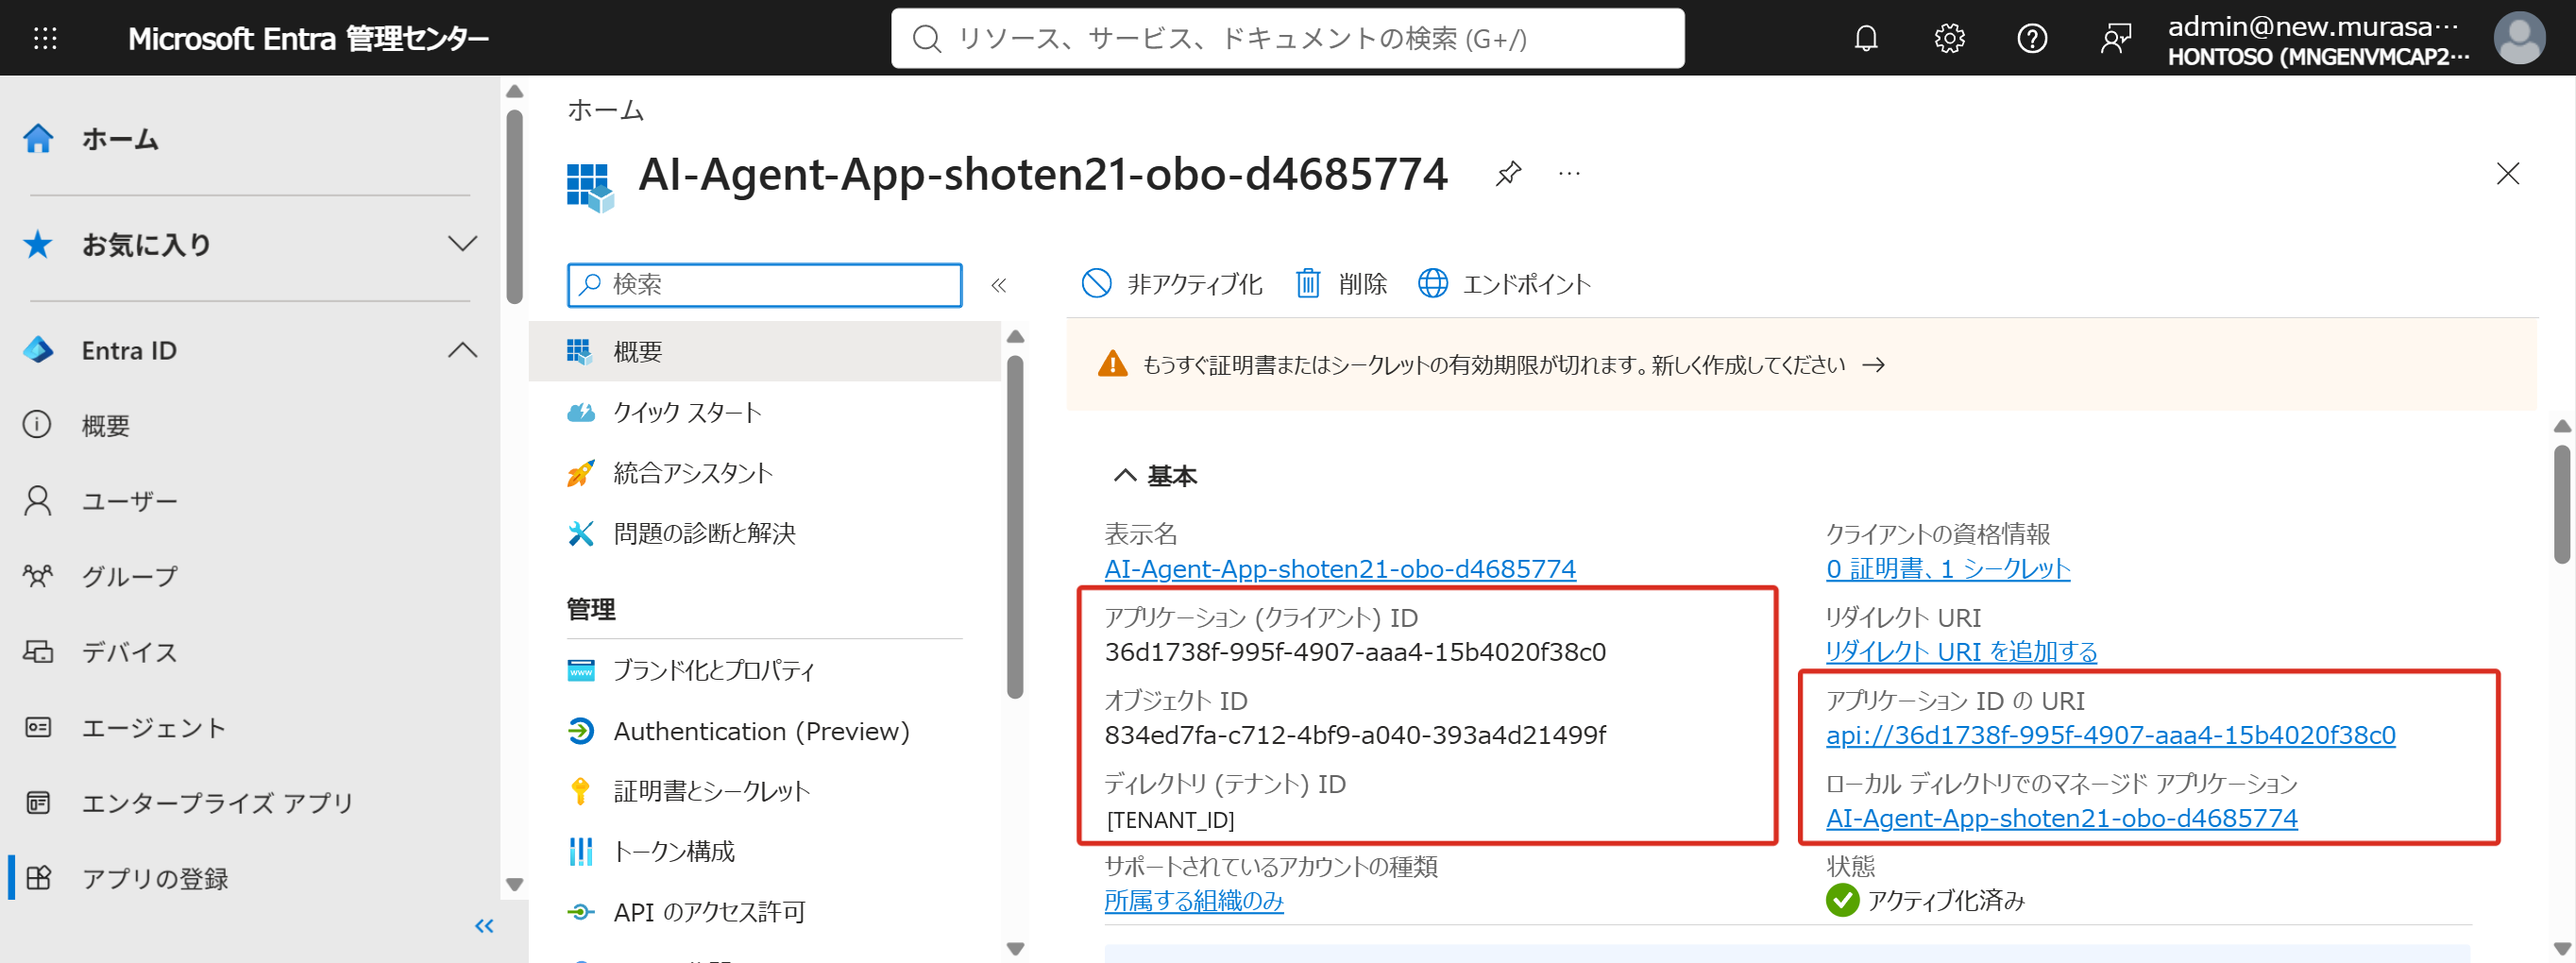
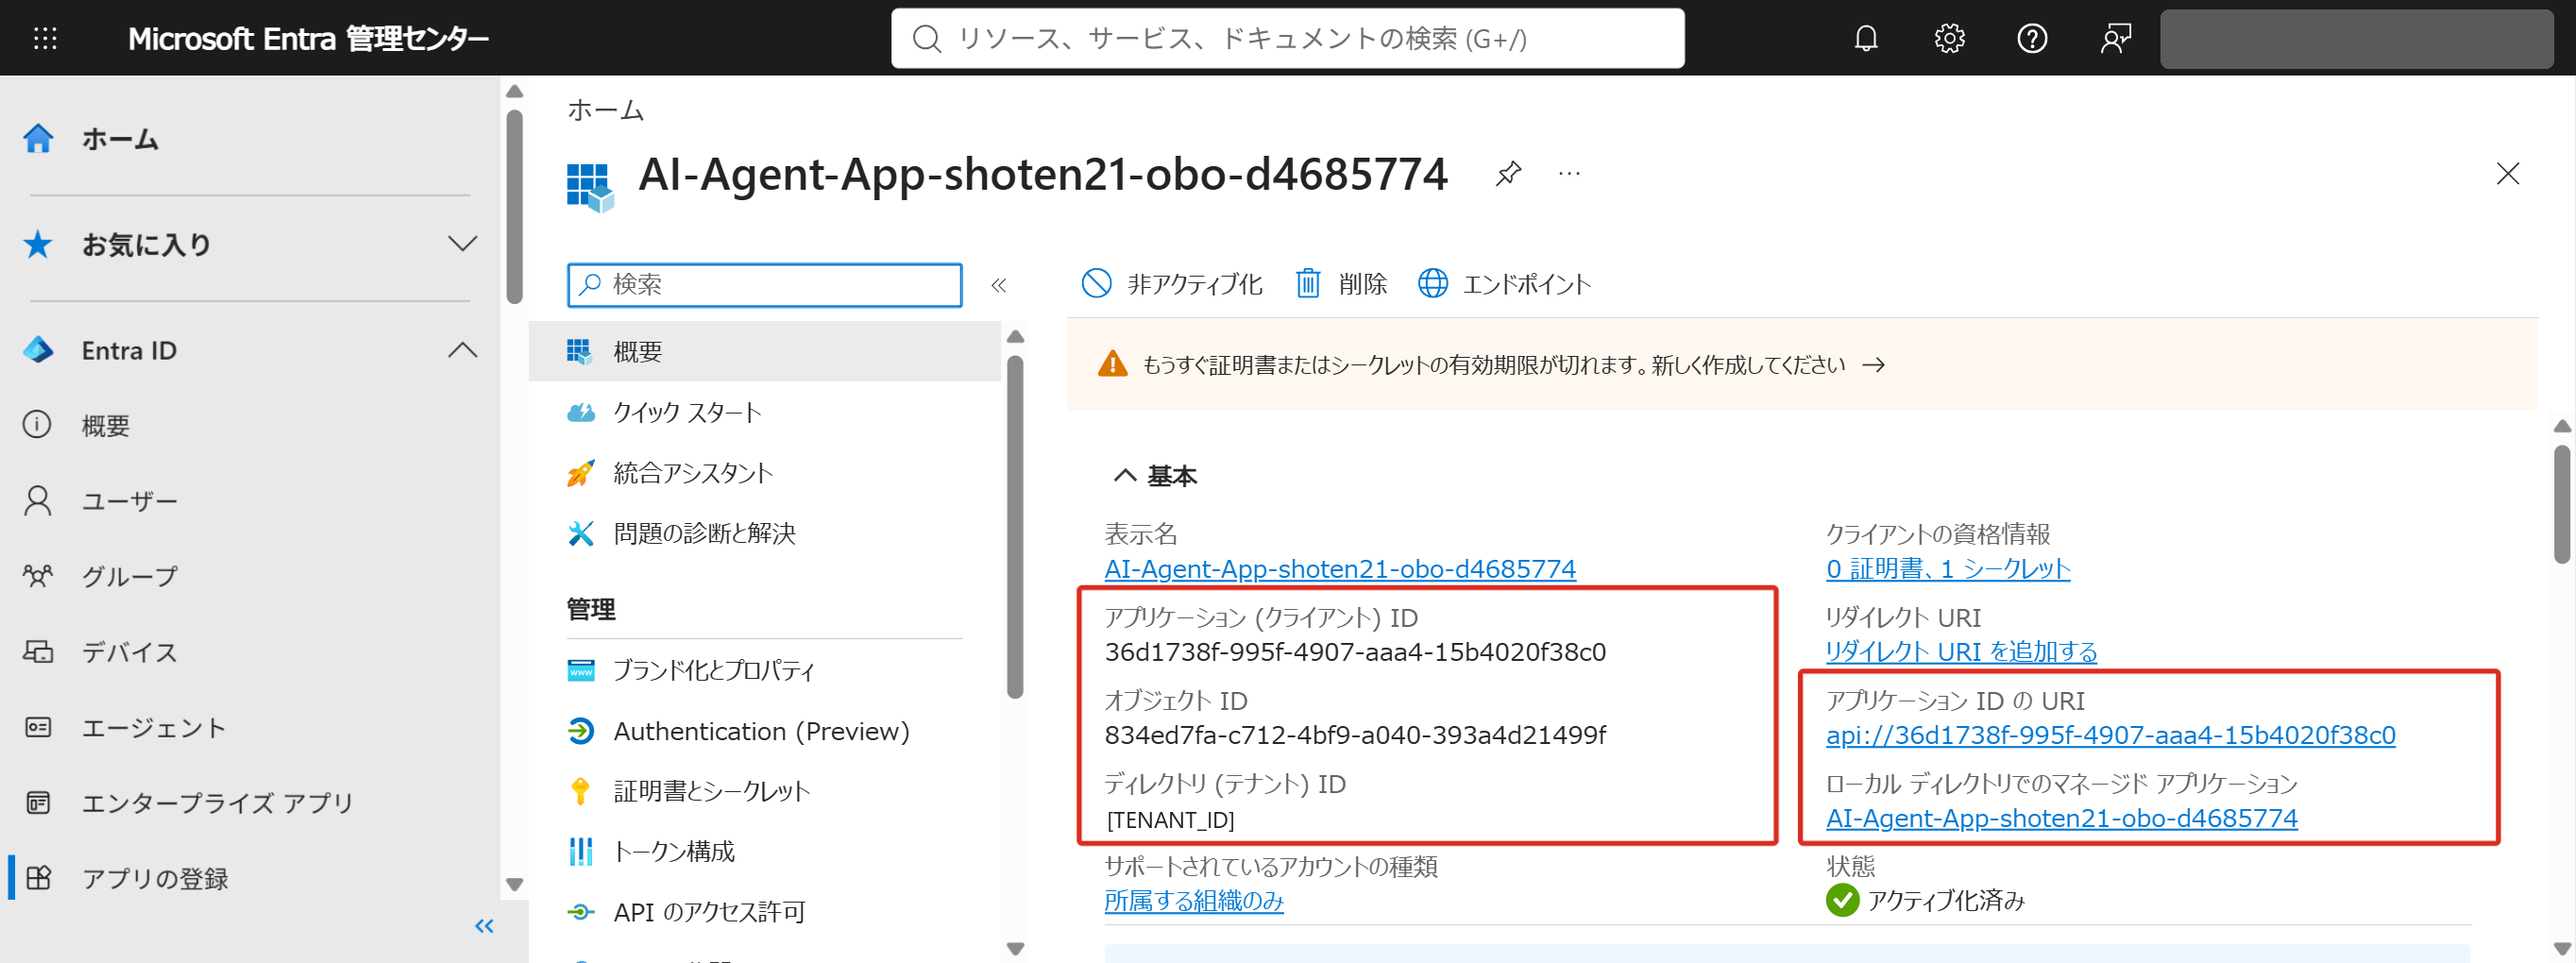
feat: add receiver boundary checks, label Bearer checks by schema, mask portal images
The Keycloak-only run gains eight receiver-boundary checks (44 in total): the JWT grant returns no refresh token, a request without client authentication is rejected, a public client is rejected while an identically configured confidential control client is accepted, an unlinked subject whose email matches the linked user is rejected and creates no user, and an access token from an assertion that expires after six seconds is accepted before and rejected after its exp. examples/author-run/keycloak/verified-results.json comes from the 2026-10-31 run and defines the launcher's expected check names.

Token views label the saved Bearer check by report schema (GET /resource for the receiver run, POST /mcp for the Federated run) and reject reports with an unknown schema. The four docs/screenshots/entra-portal-*.png images no longer show the account at the top right of the portal. README.md and AGENTS.md point to v1.3.1 and state the actual offline test counts (64 Python, 12 Node).

Changed region(s): [[0.8413, 0.0, 0.9971, 0.0912]]

diff --git a/keycloak/README.md b/keycloak/README.md
@@ -124,7 +124,9 @@ dashboard; it contains the exact local receiver endpoint and sanitized outcomes.
    `oauth2.jwt.authorization.grant.enabled=true` and
    `oauth2.jwt.authorization.grant.idp=custom-idjag-issuer`.
 4. Keycloak links the external subject to a pre-created local synthetic user.
-   This lab tests an existing mapping, not automatic just-in-time provisioning.
+   This lab tests an existing mapping, not automatic just-in-time provisioning:
+   an unlinked `sub` is rejected even when its `email` claim matches the linked
+   user, and no local user is created.
 5. The client sends `grant_type=urn:ietf:params:oauth:grant-type:jwt-bearer`,
    `assertion`, `client_id`, `client_secret`, and `scope=lab.read` to Keycloak.
    The ID-JAG-specific validator binds the asserted client to the authenticated
@@ -199,6 +201,18 @@ also passed. Its owned container
 `shoten-idjag-87c11961-3ad3-412a-93a8-4421df767685` (`96f3778c7559`) and its
 stopped collision fixture were removed; no lab service was left running. A later
 run overwrites the JSON with its own timestamps and container ID.
+
+On **2026-10-31** eight receiver-boundary checks were added, which brings the
+Keycloak-only suite to **44 checks** (the Entra-backed Federated run is unchanged
+at 36): the grant returns no refresh token; a request without client
+authentication is rejected (HTTP 401 `unauthorized_client`); a public client is
+rejected (HTTP 400 `invalid_grant`) while an identically configured confidential
+control client succeeds; an unlinked `sub` is rejected even when an `email` claim
+matches the linked user, and no local user is created; and an access token from an
+assertion that expires after six seconds is accepted by the resource before, and
+rejected after, its `exp` (the run waits about eight seconds for this). The names
+in `examples/author-run/keycloak/verified-results.json` (the 2026-10-31 run) define the launcher's
+expected set, so that file lists these checks too.
 
 `PASS` means a real observed HTTP status (and, where specified, OAuth error)
 matched the test expectation. Successful signature and claim checks have their

diff --git a/AGENTS.md b/AGENTS.md
@@ -27,7 +27,7 @@ npm run check --prefix keycloak
 npm run test:unit --prefix keycloak
 ```
 
-Pythonオフライン65件、Nodeオフライン10件は実テナントでの成功を示さない。Node側はnpm依存なし。必要なアクションだけを `.\scripts\lab.ps1 -Action Test` の形で選ぶ。EntraRunとFederatedを終えてからCleanupを行う。CIは認証情報なしのオフライン検査に限定する。
+Pythonオフライン64件、Nodeオフライン12件は実テナントでの成功を示さない。Node側はnpm依存なし。必要なアクションだけを `.\scripts\lab.ps1 -Action Test` の形で選ぶ。EntraRunとFederatedを終えてからCleanupを行う。CIは認証情報なしのオフライン検査に限定する。
 
 ## 禁止・要注意
 

diff --git a/examples/author-run/README.md b/examples/author-run/README.md
@@ -1,6 +1,6 @@
 # 著者が実行した履歴
 
-ここにあるJSONは、2026年10月18日に著者が実際に実行した結果をマスクした記録です。
+ここにあるJSONは、著者が実際に実行した結果をマスクした記録です。`entra` と `keycloak/federated-mcp-results.json` は2026年10月18日、`keycloak/verified-results.json` は受信側の境界検査を8件追加した2026年10月31日の実行（44件すべて成功）の記録です。公開用ランチャーが期待する検査名の一覧としても使われます。
 これらが存在することは、読者の環境で検証が成功したことを意味しません。
 
 - `entra`：実際のEntraトークンと、ローカルの認可判定。
